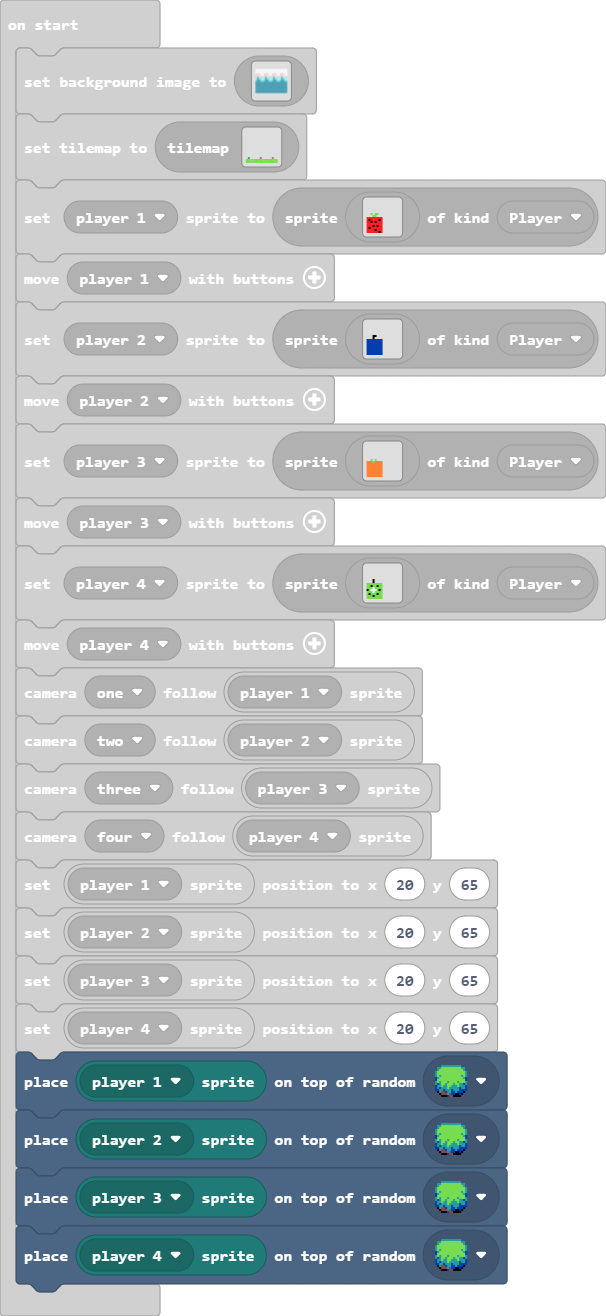
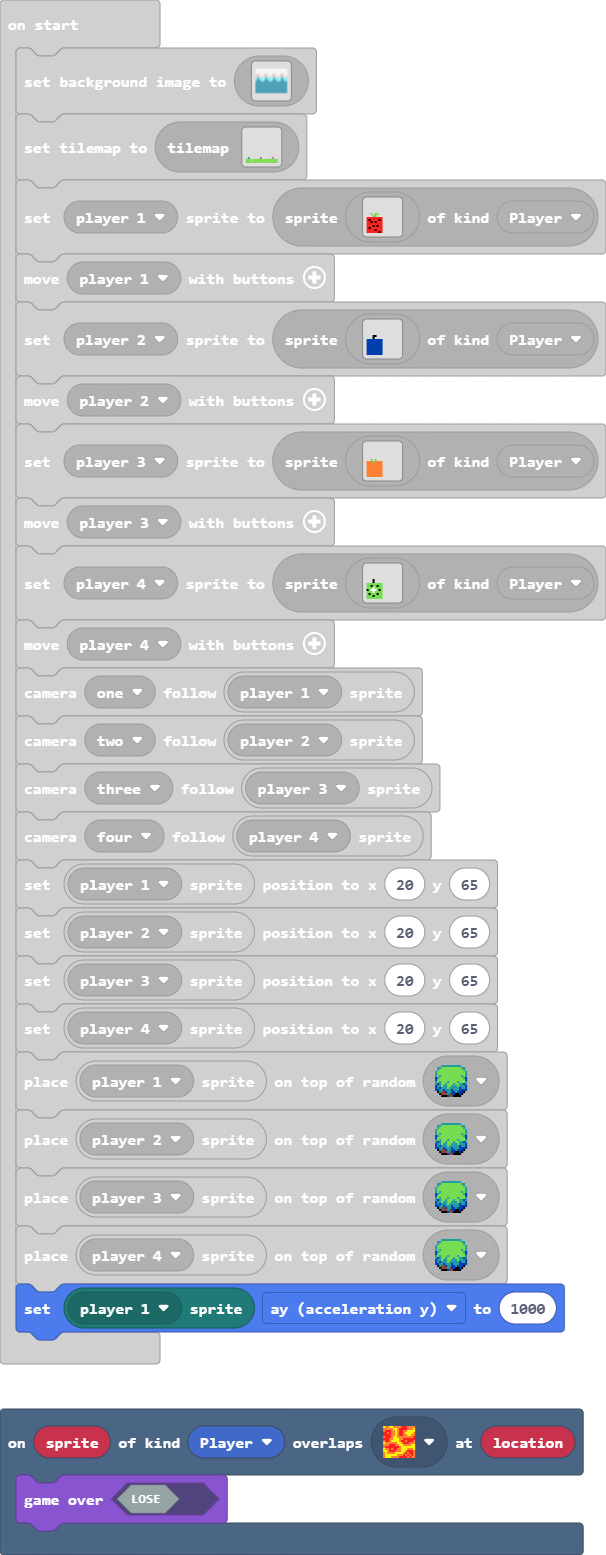
Update main.blocks, main.ts, tilemap.g.jres, tilemap.g.ts

diff --git a/main.ts b/main.ts
@@ -1,3 +1,6 @@
+scene.onOverlapTile(SpriteKind.Player, assets.tile`Lava`, function (sprite, location) {
+    game.gameOver(false)
+})
 scene.setBackgroundImage(assets.image`Backdrop - Forest`)
 tiles.setCurrentTilemap(tilemap`level1`)
 mp.setPlayerSprite(mp.playerSelector(mp.PlayerNumber.One), sprites.create(assets.image`Strawberry`, SpriteKind.Player))
@@ -20,3 +23,4 @@ tiles.placeOnRandomTile(mp.getPlayerSprite(mp.playerSelector(mp.PlayerNumber.One
 tiles.placeOnRandomTile(mp.getPlayerSprite(mp.playerSelector(mp.PlayerNumber.Two)), sprites.builtin.forestTiles0)
 tiles.placeOnRandomTile(mp.getPlayerSprite(mp.playerSelector(mp.PlayerNumber.Three)), sprites.builtin.forestTiles0)
 tiles.placeOnRandomTile(mp.getPlayerSprite(mp.playerSelector(mp.PlayerNumber.Four)), sprites.builtin.forestTiles0)
+mp.getPlayerSprite(mp.playerSelector(mp.PlayerNumber.One)).ay = 1000

diff --git a/tilemap.g.ts b/tilemap.g.ts
@@ -8,6 +8,8 @@ namespace myTiles {
     export const tile2 = image.ofBuffer(hex``);
     //% fixedInstance jres blockIdentity=images._tile
     export const tile3 = image.ofBuffer(hex``);
+    //% fixedInstance jres blockIdentity=images._tile
+    export const tile4 = image.ofBuffer(hex``);
 
     helpers._registerFactory("tilemap", function(name: string) {
         switch(helpers.stringTrim(name)) {
@@ -43,6 +45,8 @@ namespace myTiles {
             case "tile2":return tile2;
             case "myTile1":
             case "tile3":return tile3;
+            case "Lava":
+            case "tile4":return tile4;
         }
         return null;
     })
